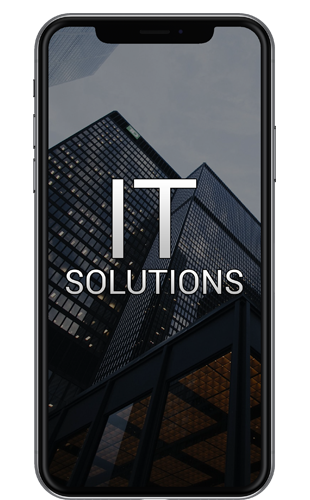
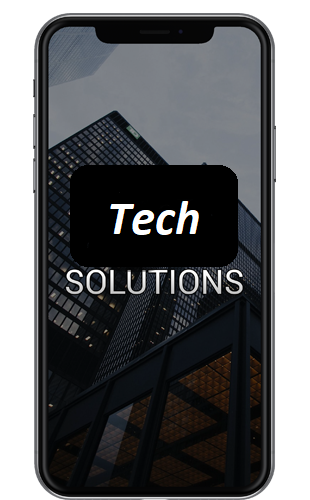
updating version 2.0

Changed region(s): [[0.2032, 0.33, 0.7839, 0.54]]

diff --git a/index.html b/index.html
@@ -5,14 +5,14 @@
     <meta charset="UTF-8">
     <meta name="viewport" content="width=device-width, initial-scale=1.0">
     <link rel="stylesheet" href="/styles/style.css">
-    <link rel="stylesheet" media="screen and (max-width: 768px)" href="/styles/mobile.css">
-    <title>IT solutions</title>
+    <link rel="stylesheet" href="/styles/mobile.css">
+    <title>Tech Solutions</title>
 </head>
 
 <body>
     <nav id="navbar">
         <div id="navbar-container">
-            <h1 class="logo">IT solutions</h1>
+            <h1 class="logo">Tech Solutions</h1>
             <ul id="navbar-items">
                 <li><a href="#showcase">Inicio</a></li>
                 <li><a href="#clients">Sobre</a></li>
@@ -24,8 +24,8 @@
 
     <header id="showcase">
         <div id="showcase-container">
-            <h2>Lorem ipsum dolor sit amet.</h2>
-            <P>Lorem ipsum dolor sit, amet consectetur adipisicing elit. Dicta, illum!</P>
+            <h2>Tech Solutions: O Caminho para o Sucesso Digital</h2>
+            <P>Conectando você com a próxima era da tecnologia</P>
             <a href="" class="btn">SAIBA MAIS</a>
         </div>
     </header>
@@ -45,21 +45,19 @@
         <div id="feature-container">
             <div class="feature">
                 <i class="fas fa-tachometer-alt fa-3x"></i>
-                <span class="feature-title">Lorem ipsum dolor sit amet.</span>
-                <p>Lorem ipsum dolor sit amet consectetur adipisicing elit. Facere saepe incidunt cum veniam autem
-                    doloremque.</p>
+                <span class="feature-title">Aplicativos Personalizados</span>
+                <p>Da concepção à implementação, criamos aplicativos personalizados que atendem às suas necessidades
+                    específicas.</p>
             </div>
             <div class="feature">
                 <i class="fas fa-code fa-3x"></i>
-                <span class="feature-title">Lorem ipsum dolor sit amet.</span>
-                <p>Lorem ipsum dolor sit amet consectetur adipisicing elit. Facere saepe incidunt cum veniam autem
-                    doloremque.</p>
+                <span class="feature-title">Transformação Digital</span>
+                <p>Guiamos sua empresa através da jornada da transformação digital, e Analisamos suas operações.</p>
             </div>
             <div class="feature">
                 <i class="fas fa-layer-group fa-3x"></i>
-                <span class="feature-title">Lorem ipsum dolor sit amet.</span>
-                <p>Lorem ipsum dolor sit amet consectetur adipisicing elit. Facere saepe incidunt cum veniam autem
-                    doloremque.</p>
+                <span class="feature-title">Sites e E-Commerce</span>
+                <p>Criamos sites atraentes e intuitivos que cativam o público-alvo e impulsionam as vendas.</p>
             </div>
         </div>
     </section>
@@ -72,23 +70,24 @@
         <div id="items">
             <div class="item">
                 <i class="fas fa-map-marked fa-zx color-primary fa-2x"></i>
-                <p>Lorem ipsum dolor sit, amet consectetur adipisicing elit. Fugit vitae omnis consequuntur qui
-                    assumenda tempora.</p>
+                <p>Nosso produto é utilizado por clientes em todo o mundo. Com presença em múltiplas regiões, oferecemos
+                    suporte e atendimento em diversos idiomas, garantindo que nossa solução atenda às necessidades de
+                    uma base global de usuários.</p>
             </div>
             <div class="item">
                 <i class="fas fa-users fa-2x color-primary"></i>
-                <p>Lorem ipsum dolor sit, amet consectetur adipisicing elit. Fugit vitae omnis consequuntur qui
-                    assumenda tempora.</p>
+                <p>Nosso produto facilita a conexão e colaboração entre grupos e pessoas, seja dentro de uma
+                    organização, entre equipes distribuídas globalmente ou entre clientes e fornecedores.</p>
             </div>
             <div class="item">
                 <i class="fas fa-glass-cheers fa-2x color-primary"></i>
-                <p>Lorem ipsum dolor sit, amet consectetur adipisicing elit. Fugit vitae omnis consequuntur qui
-                    assumenda tempora.</p>
+                <p>No nosso ambiente, celebramos cada conquista, desde marcos importantes de projeto até o
+                    reconhecimento de indivíduos por seu trabalho excepcional.</p>
             </div>
             <div class="item">
                 <i class="fas fa-book open fa-2x"></i>
-                <p>Lorem ipsum dolor sit, amet consectetur adipisicing elit. Fugit vitae omnis consequuntur qui
-                    assumenda tempora.</p>
+                <p> Promovemos uma cultura de aprendizado contínuo, incentivando a leitura e a busca por novos
+                    conhecimentos.</p>
             </div>
         </div>
     </section>
@@ -98,13 +97,13 @@
         <div id="testimonials-container">
             <div class="testimonial">
                 <img src="/img/person-1.jpeg" class="testimonial-image" alt="">
-                <p>Lorem ipsum dolor sit amet consectetur, adipisicing elit. Nobis tempora nostrum minus voluptate, quod
-                    quasi autem corporis magni a perspiciatis.</p>
+                <p>Estou impressionado com a qualidade do serviço prestado por Tech Solutions. Eles superaram todas as
+                    minhas expectativas e entregaram resultados excepcionais dentro do prazo. Recomendo totalmente!</p>
             </div>
             <div class="testimonial">
                 <img src="/img/person-2.jpeg" class="testimonial-image" alt="">
-                <p>Lorem ipsum dolor sit amet consectetur, adipisicing elit. Nobis tempora nostrum minus voluptate, quod
-                    quasi autem corporis magni a perspiciatis.</p>
+                <p>Trabalhar com Tech Solutions tem sido uma experiência incrível. Sua equipe é altamente profissional,
+                    ágil e comprometida com a excelência. Estamos ansiosos para continuar nossa parceria no futuro.</p>
             </div>
         </div>
     </div>
@@ -123,7 +122,7 @@
 
     <footer id="footer">
         <p>&copy; 2023 - Todos os direitos reservados.</p>
-        <p>Feito por IT solutions.</p>
+        <p>Feito por Tech Solutions.</p>
     </footer>
 
     <script src="https://kit.fontawesome.com/eaf9a6a5aa.js" crossorigin="anonymous"></script>

diff --git a/styles/mobile.css b/styles/mobile.css
@@ -1,66 +1,70 @@
-#navbar {
-    height: 180px;
-}
+@media (max-width: 768px) {
 
-#navbar-container {
-    flex-direction: column;
-    padding: 20px 0;
-}
+    #navbar {
+        height: 180px;
+    }
 
-#navbar-items {
-    flex-direction: column;
-    text-align: center;
-    width: 100%;
-}
+    #navbar-container {
+        flex-direction: column;
+        padding: 20px 0;
+    }
 
-#navbar-items>li:nth-child(2) {
-    border-top: 1px solid #333;
-    border-bottom: 1px solid #333;
-}
+    #navbar-items {
+        flex-direction: column;
+        text-align: center;
+        width: 100%;
+    }
 
-#showcase-container {
-    padding: 20px;
-}
+    #navbar-items>li:nth-child(2) {
+        border-top: 1px solid #333;
+        border-bottom: 1px solid #333;
+    }
 
-#clients-container {
-    grid-template-columns: repeat(2, 1fr);
-}
+    #showcase-container {
+        padding: 20px;
+    }
 
-.client {
-    width: 50%;
-}
+    #clients-container {
+        grid-template-columns: repeat(2, 1fr);
+    }
 
-#feature-container {
-    grid-template-columns: 1fr;
-}
+    .client {
+        width: 50%;
+    }
 
-#feature-container>.feature:nth-child(2) {
-    margin: 15px 0;
-}
+    #feature-container {
+        grid-template-columns: 1fr;
+    }
 
-#product-container {
-    flex-direction: column;
-}
+    #feature-container>.feature:nth-child(2) {
+        margin: 15px 0;
+    }
 
-#items {
-    width: 90%;
-}
+    #product-container {
+        flex-direction: column;
+    }
 
-.item {
-    flex-direction: column;
-    align-items: center;
-    text-align: center;
-}
+    #items {
+        width: 90%;
+    }
 
-.testimonials {
-    flex-direction: column;
-    text-align: center;
-}
+    .item {
+        flex-direction: column;
+        align-items: center;
+        text-align: center;
+    }
 
-#galery-container {
-    grid-template-columns: 1fr;
-}
+    .testimonials {
+        flex-direction: column;
+        text-align: center;
+    }
 
-.galery-image {
-    width: 100%;
+    #galery-container {
+        grid-template-columns: 1fr;
+    }
+
+    .galery-image {
+        width: 100%;
+    }
+
 }
